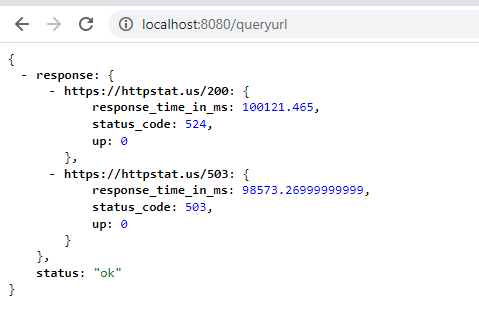
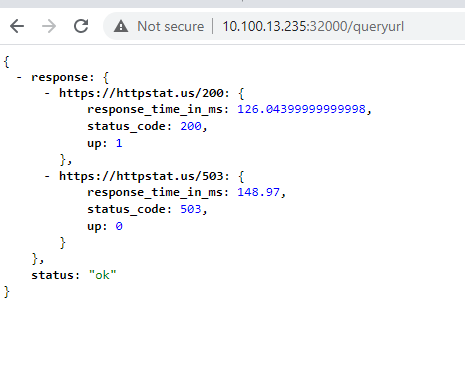
code changes

diff --git a/main.py b/main.py
@@ -4,18 +4,26 @@ from prometheus_client import start_http_server, Histogram,  generate_latest,Sum
 import config.config as cfg
 import logging
 import json
+from apscheduler.schedulers.background import BackgroundScheduler
+import atexit
+
+# setting log level as per config/config.py
+log_level=logging.getLevelName(cfg.log_level)
+logging.basicConfig(format='%(asctime)s - %(message)s',level=log_level)
 
 app = Flask(__name__)
 
-## metrics for Prometheus
+# metrics for Prometheus
 metrics = {}
 metrics['response_time']=Gauge('sample_external_url_response_ms', 'Response Time of the url',['url'])
 metrics['status']=Gauge('sample_external_url_up', 'Status of the url',['url'])
 
+# reading config from config/config.py
 REQUEST_TIMEOUT_SECONDS=cfg.request_timeout_in_seconds
+QUERY_INTERVAL_IN_SECONDS=cfg.query_interval_in_seconds
 
 def construct_url_response(url,status_code,status_up,response_time_in_ms):
-    logging.info("constructing response per url" )
+    logging.info("constructing response for url - " +url)
     response_hash={}
     response_hash['status_code']=status_code
     response_hash['up']=status_up
@@ -24,11 +32,12 @@ def construct_url_response(url,status_code,status_up,response_time_in_ms):
     metrics['response_time'].labels(url).set(response_time_in_ms)
     return response_hash
 
+# endpoint to run url query
 @app.route('/queryurl')
 def checkurl():
-    logging.info("Query url function.")
+    logging.info("Query url function started.")
 
-    ## reading config from config/config.py
+    # reading config from config/config.py
     urls=cfg.urls
     result={}
     result['response']={}
@@ -44,14 +53,15 @@ def checkurl():
                 logging.info( url + " responded with unhealthy response code.")
                 result['response'][url]=construct_url_response(url,response.status_code,0,response_time_in_ms)
         except requests.Timeout as ex:
-            logging.warning("Request timedout after " + str(REQUEST_TIMEOUT_SECONDS)+" seconds!")
+            logging.warning("Request timed out after " + str(REQUEST_TIMEOUT_SECONDS)+" seconds for url - "+ url)
             response_time_in_ms=REQUEST_TIMEOUT_SECONDS*1000
             result['response'][url]=construct_url_response(url,503,0,response_time_in_ms)
         except Exception as ex:
             logging.warning("Something went wrong!")
-            logging.warning(ex)
+            logging.exception(ex)
             result['response'][url]={"message":"Exception occured"}
     result['status']='ok'
+    logging.info("Query url function completed.")
     return json.dumps(result)
 
 @app.route("/metrics")
@@ -62,11 +72,20 @@ def requests_count():
         res.append(generate_latest(v))
     return Response(res, mimetype="text/plain")
 
+# endpoint to monitor health of the application
 @app.route('/healthcheck')
 def healthcheck():
     logging.info("healthcheck function.")
     return_json={"app_name":"query_url","app_status":"ok"}
     return return_json
+
+# schedule running the query as a background job
+scheduler = BackgroundScheduler()
+scheduler.add_job(func=checkurl, trigger="interval", seconds=QUERY_INTERVAL_IN_SECONDS)
+scheduler.start()
+
+# shut down the scheduler when exiting the app
+atexit.register(lambda: scheduler.shutdown())
 
 if __name__ == '__main__':
     app.run(host='0.0.0.0', port=8080)

diff --git a/config/config.py b/config/config.py
@@ -1,2 +1,4 @@
 urls=["https://httpstat.us/503", "https://httpstat.us/200"]
 request_timeout_in_seconds=30
+query_interval_in_seconds=300
+log_level="INFO"
